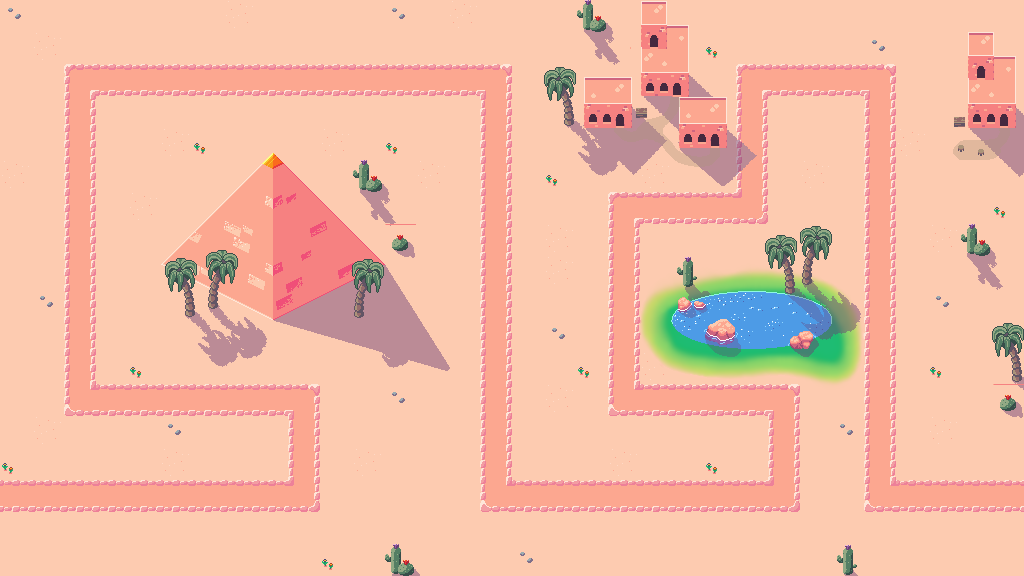
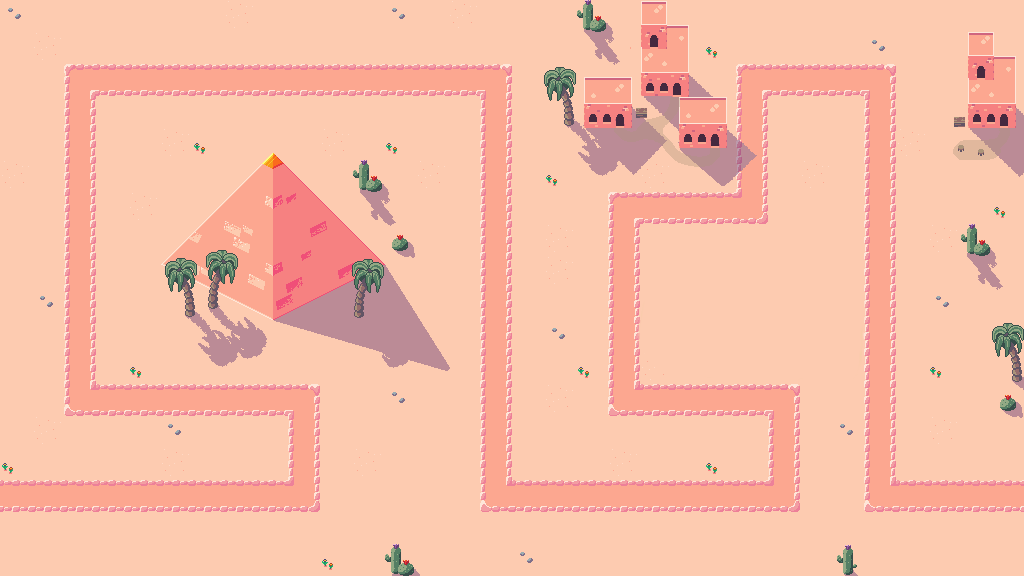
DJOIASJdioj

Changed region(s): [[0.625, 0.375, 0.8438, 0.6875]]

diff --git a/src/js/towerdefencs/towerdefence.js b/src/js/towerdefencs/towerdefence.js
@@ -57,22 +57,25 @@ class Round {
 
 // Load map
 const mapImage = new Image();
-mapImage.src = "src/img/td_desert_bg.png";
+mapImage.src = "./src/img/td_desert_bg.png";
 
 // Load tower1
 const tower1Image = new Image();
-tower1Image.src = "src/img/Tower1.png";
+tower1Image.src = "./src/img/Tower1.png";
 
 const SunImage = new Image();
-SunImage.src = "src/img/Sun_365x329.png";
+SunImage.src = "./src/img/Sun_365x329.png";
 
 //Load Projectile1
 const projectile1Image = new Image();
-projectile1Image.src = "src/img/Projectile1.png";
+projectile1Image.src = "./src/img/Projectile1.png";
 
 
 const Enemy1Image = new Image();
-Enemy1Image.src = "src/img/greif_run.png";
+Enemy1Image.src = "./src/img/greif_run.png";
+
+const AnimatedLakeImage = new Image();
+AnimatedLakeImage.src = "./src/img/new_dessert_lake.png";
 
 const HTMLShop = document.getElementById("Shop");
 
@@ -160,6 +163,7 @@ class TowerDefence{
         this.GameRunning = true;
         this.SunTimer = 0;
         this.SunFrameTime = 0;
+        this.LakeFrame = 0;
     }
 
     LoadBlockCords(){
@@ -194,6 +198,18 @@ class TowerDefence{
         }
 
         TD.drawMap();
+
+
+        if(SunFrame){
+            TD.LakeFrame++;
+            if(TD.LakeFrame > 9){
+                TD.LakeFrame = 0;
+            }
+        }
+        //Draw Lake
+        ctx.drawImage(AnimatedLakeImage, 224*TD.LakeFrame, 0, 224, 160, 800, 280, 280, 200);
+
+
         if (TD.showGrid) {
             TD.drawGrid();
         }
